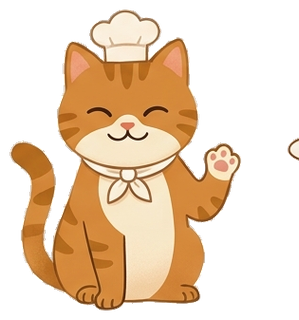
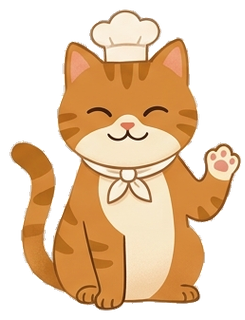
Passle: Practice leans on missed rules; Rush history beside Practice; clean cheer pose
- Missed drills and Rush tickets put a rule on the weak list; Practice draws up to 6 of 10 tickets from it until you answer them right
- cheer.png: removed a sliver of a neighbouring sprite at the right edge

Claude-Session: https://claude.ai/code/session_01LhqPvisZMY1fTQMFjaKhW2

diff --git a/labs/passle.html b/labs/passle.html
@@ -5464,6 +5464,7 @@ function rushAnswer(v){
 function rushFinish(timeUp){
   RUSH.done=true;clearInterval(RUSH.timer);RUSH.timeUp=timeUp;RUSH.used=Math.min(Date.now(),RUSH.deadline)-RUSH.start;
   while(RUSH.answers.length<RUSH.list.length){const d=RUSH.list[RUSH.answers.length];RUSH.answers.push({d,v:null,ok:false,skipped:true})}
+  RUSH.answers.forEach(a=>markRule(a.d.r,a.ok));
   const ok=RUSH.answers.filter(a=>a.ok).length,pct=Math.round(ok/RUSH.list.length*100);
   S.rushes=(S.rushes||[]).concat([{at:new Date().toISOString().slice(0,16).replace('T',' '),pct,n:RUSH.list.length}]).slice(-20);save();
   if(pct>=70)sfx.target();else sfx.rule();
@@ -5475,8 +5476,9 @@ function rushSide(){
     sd.innerHTML='<div class="rail">'+RUSH.list.map((d,i)=>'<span class="'+(i<RUSH.i?'done':(i===RUSH.i?'now':''))+'">'+(i+1)+'</span>').join('')+'</div><p class="hint0 rnote">No hints and no answers until the end, like the real thing. Unanswered tickets count as wrong when the clock runs out.</p>';
     return;
   }
+  $('stitle').textContent='Service history';
   const h=(S.rushes||[]).slice().reverse();
-  sd.innerHTML='<div class="rhist"><small>Past services</small>'+(h.length?h.map(r=>'<div class="rrow"><span>'+esc(r.at)+'</span><span class="rbar"><i style="width:'+r.pct+'%"></i></span><b class="'+(r.pct>=70?'pass':'')+'">'+r.pct+'%</b></div>').join(''):'<p class="hint0">No services yet.</p>')+'</div>';
+  sd.innerHTML='<div class="rhist"><small>Past services</small>'+(h.length?h.map(r=>'<div class="rrow"><span>'+esc(r.at)+'</span><span class="rbar"><i style="width:'+r.pct+'%"></i></span><b class="'+(r.pct>=70?'pass':'')+'">'+r.pct+'%</b></div>').join(''):'<p class="hint0">No services yet. Run a Rush when you want to know where you stand.</p>')+'</div>';
 }
 function renderRush(){
   const box=$('dbox');$('pips').innerHTML='';
@@ -5678,8 +5680,14 @@ function practiceList(){
   const pool=[];TARGETS.forEach(t=>t.drills.concat(t.review||[]).forEach(d=>{if(S.learned.includes(d.r))pool.push(Object.assign({},d,{rv:0}))}));
   MORE.forEach(d=>{if(S.learned.includes(d.r))pool.push(Object.assign({},d,{rv:0}))});
   for(let i=pool.length-1;i>0;i--){const j=Math.floor(Math.random()*(i+1));[pool[i],pool[j]]=[pool[j],pool[i]]}
-  return pool.slice(0,10);
+  const miss=S.miss||{},weak=pool.filter(d=>(miss[d.r]||0)>0).sort((a,b)=>(miss[b.r]||0)-(miss[a.r]||0));
+  const seen=new Set(),out=[];
+  for(const d of weak){if(out.length>=6)break;if(!seen.has(d.q)){seen.add(d.q);out.push(Object.assign({},d,{weak:1}))}}
+  for(const d of pool){if(out.length>=10)break;if(!seen.has(d.q)){seen.add(d.q);out.push(d)}}
+  for(let i=out.length-1;i>0;i--){const j=Math.floor(Math.random()*(i+1));[out[i],out[j]]=[out[j],out[i]]}
+  return out;
 }
+function markRule(r,ok){S.miss=S.miss||{};const n=(S.miss[r]||0)+(ok?-1:1);if(n>0)S.miss[r]=Math.min(n,5);else delete S.miss[r];save()}
 const lessonsDone=t=>(S.les||0)>=TARGETS[t].rules.length||S.drill>0;
 function exampleBlock(code,title,id){
   const e=document.createElement('div');e.className='exb';
@@ -5723,8 +5731,8 @@ function renderSchool(){
 }
 function practiceDone(){
   $('dtitle').textContent='Practice complete';sideRule(null);
-  const box=$('dbox');box.innerHTML='<div class="donecard"><div class="lhead"><div><div class="dk">Practice report</div><h2>'+PR.ft+' of '+PR.list.length+' on the first try</h2></div>'+(PR.ft===PR.list.length?dishImg('badge','ldish'):'')+'<img src="'+ROUX+'cheer.png" alt=""></div><p class="hint0">Practice mixes drills from every rule you have learned. Run it whenever you have five minutes.</p><div class="drow"><button class="pri" id="again">New round</button></div></div>';
-  $('again').onclick=()=>{PR=null;sfx.click();renderSchool()};sfx.rule();
+  const box=$('dbox');box.innerHTML='<div class="donecard"><div class="lhead"><div><div class="dk">Practice report</div><h2>'+PR.ft+' of '+PR.list.length+' on the first try</h2></div>'+(PR.ft===PR.list.length?dishImg('badge','ldish'):'')+'<img src="'+ROUX+'cheer.png" alt=""></div><p class="hint0">Practice mixes drills from every rule you have learned, and leans on the rules you missed in drills or in a Rush until you get them right.</p>'+(Object.keys(S.miss||{}).length?'<div class="sec warn"><small>Still on the weak list</small><ul>'+Object.keys(S.miss).filter(r=>RULES[r]).map(r=>'<li>Rule '+RULES[r].n+': '+esc(RULES[r].title)+'</li>').join('')+'</ul></div>':'<div class="win">Nothing on the weak list. Roux approves.</div>')+'<div class="drow"><button class="pri" id="again">New round</button></div></div>';
+  $('again').onclick=()=>{PR=null;sfx.click();renderSchool()};sfx.rule();if(!RUSH||RUSH.done)rushSide();
 }
 function sideRule(id){
   const sd=$('sside');sd.innerHTML='';
@@ -5737,7 +5745,7 @@ function renderDrill(d,i,n){
   $('dtitle').textContent=(S.stage==='practice'?'Practice ':'Drill ')+(i+1)+' of '+n;
   const box=$('dbox');const kind={pick:'Choose',gap:'Fill the gap',type:'Type it',fix:'Spot the bug'}[d.k];
   const R=RULES[d.r];
-  box.innerHTML='<div class="rstrip"><span class="tagn">RULE '+R.n+'</span><b>'+esc(R.title)+'</b><button id="lessbtn">Lesson</button></div><div class="dmain"><div class="dbody"><div class="dk">'+(d.rv?'Review · ':'')+kind+'</div><div class="dq">'+fmt(d.q)+'</div><div id="din"></div><div class="fb" id="fb"></div><div class="drow" style="margin-top:0"><button class="pri" id="dcheck">Check · Enter</button></div></div><img class="droux" id="droux" src="'+ROUX+'idle.png" alt=""></div><div class="sec warn"><small>Watch out</small><ul>'+R.mistakes.map(m=>'<li>'+esc(m)+'</li>').join('')+'</ul></div>';
+  box.innerHTML='<div class="rstrip"><span class="tagn">RULE '+R.n+'</span><b>'+esc(R.title)+'</b><button id="lessbtn">Lesson</button></div><div class="dmain"><div class="dbody"><div class="dk">'+(d.rv?'Review · ':'')+(d.weak?'Weak spot · ':'')+kind+'</div><div class="dq">'+fmt(d.q)+'</div><div id="din"></div><div class="fb" id="fb"></div><div class="drow" style="margin-top:0"><button class="pri" id="dcheck">Check · Enter</button></div></div><img class="droux" id="droux" src="'+ROUX+'idle.png" alt=""></div><div class="sec warn"><small>Watch out</small><ul>'+R.mistakes.map(m=>'<li>'+esc(m)+'</li>').join('')+'</ul></div>';
   $('lessbtn').onclick=()=>{sfx.blip();renderLesson(d.r,0,1,true)};
   sideRule(d.r);
   const din=$('din');
@@ -5751,22 +5759,22 @@ function renderDrill(d,i,n){
     $('dcheck').onclick=()=>checkDrill(d);setTimeout(()=>inp.focus(),30);
   }
 }
-function pick(d,j,b){if(dState.locked)return;if(j===d.a){b.classList.add('good');passDrill()}else{b.classList.add('bad');failDrill(d)}}
+function pick(d,j,b){if(dState.locked)return;if(j===d.a){b.classList.add('good');passDrill(d)}else{b.classList.add('bad');failDrill(d)}}
 function checkDrill(d){
   const v=$('dval').value.trim(),fb=$('fb');
   if(!v){fb.className='fb err';fb.textContent='Type an answer first.';sfx.bad();return}
   const ok=d.k==='gap'?d.a.includes(v):d.test.test(v.replace(/\s+/g,' '));
-  ok?passDrill():failDrill(d);
+  ok?passDrill(d):failDrill(d);
 }
-function passDrill(){
-  if(dState.locked)return;dState.locked=true;
+function passDrill(d){
+  if(dState.locked)return;dState.locked=true;if(d&&dState.tries===0)markRule(d.r,true);
   if(dState.tries===0)S.ft++;
   const fb=$('fb');fb.className='fb ok';fb.textContent=['Oui, chef.','Clean plate.','Spot on.','Service!'][Math.floor(Math.random()*4)];
   pose($('droux'),'happy',900);
   if(S.stage==='practice'){if(dState.tries===0)PR.ft++;PR.i++}else S.drill++;
   sfx.ok();save();setTimeout(()=>{if(S.stage==='school'||S.stage==='practice')renderSchool()},800);
 }
-function failDrill(d){dState.tries++;const fb=$('fb');fb.className='fb err';fb.innerHTML='Not quite. '+fmt(d.h);pose($('droux'),'stern',1400);sfx.bad()}
+function failDrill(d){if(dState.tries===0)markRule(d.r,false);dState.tries++;const fb=$('fb');fb.className='fb err';fb.innerHTML='Not quite. '+fmt(d.h);pose($('droux'),'stern',1400);sfx.bad()}
 function schoolComplete(){
   const tg=T();const fresh=tg.rules.filter(r=>!S.learned.includes(r));
   if(fresh.length){S.learned=S.learned.concat(fresh);save();sfx.rule();comms('New rules in the Rulebook and the Codex.');render();return}
